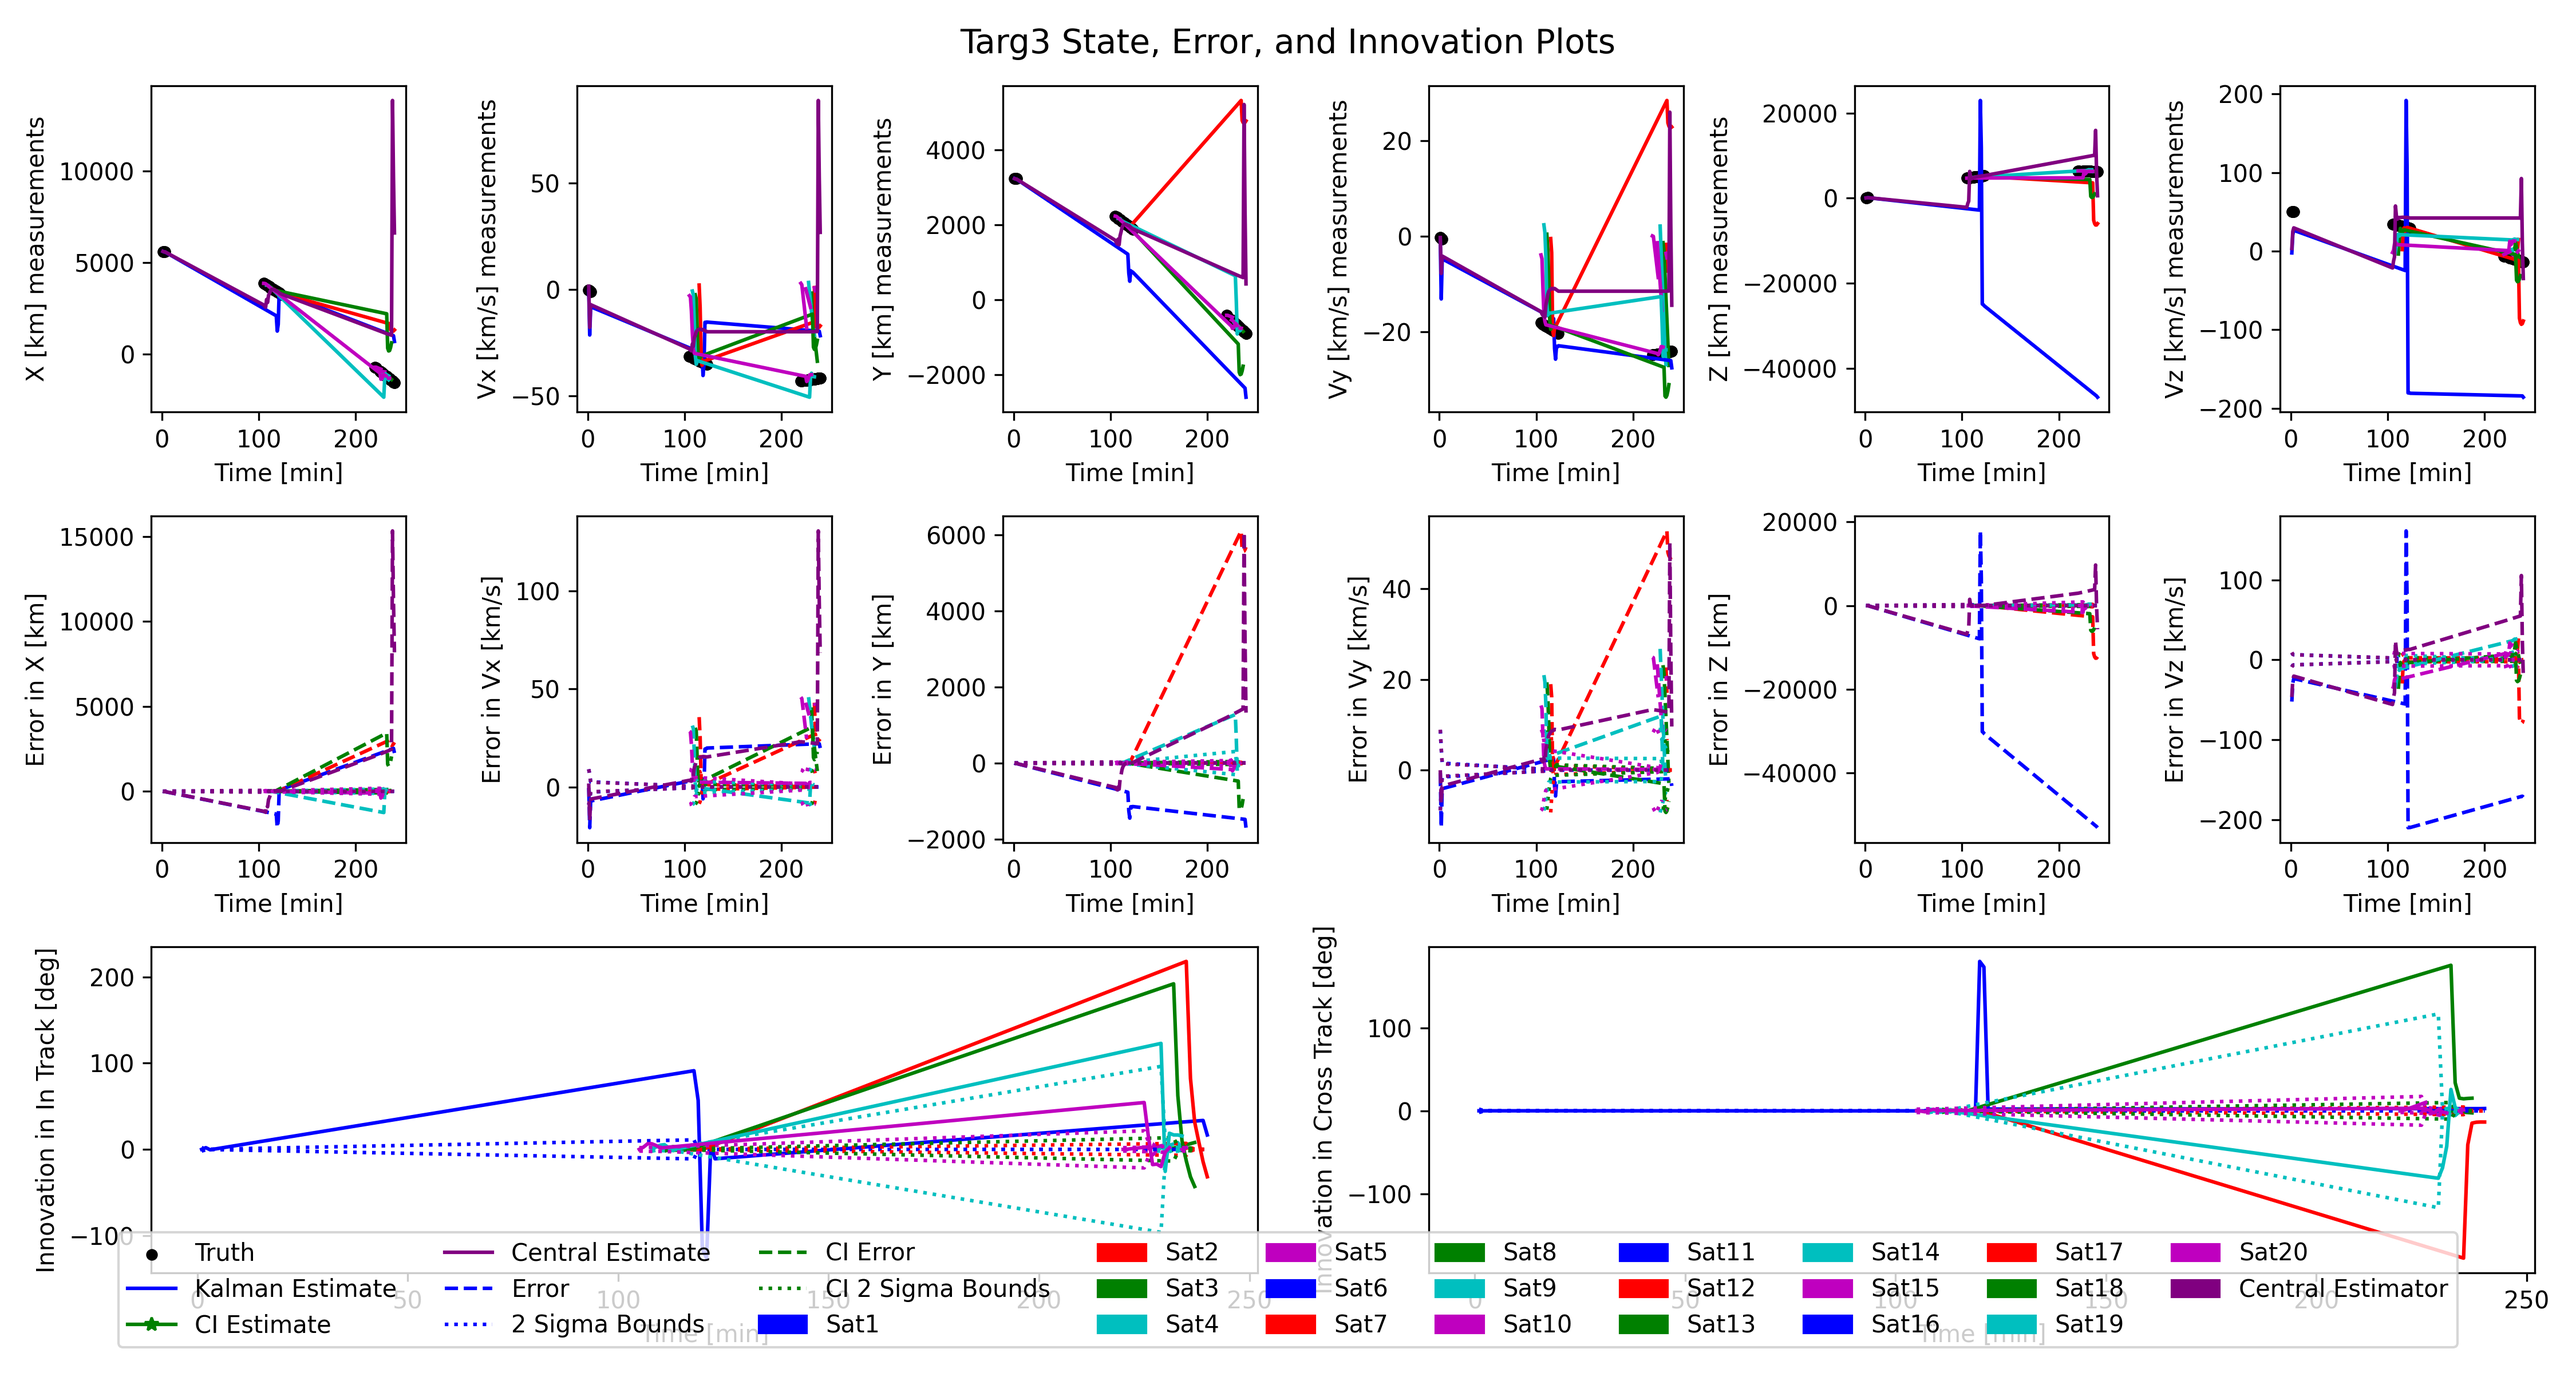
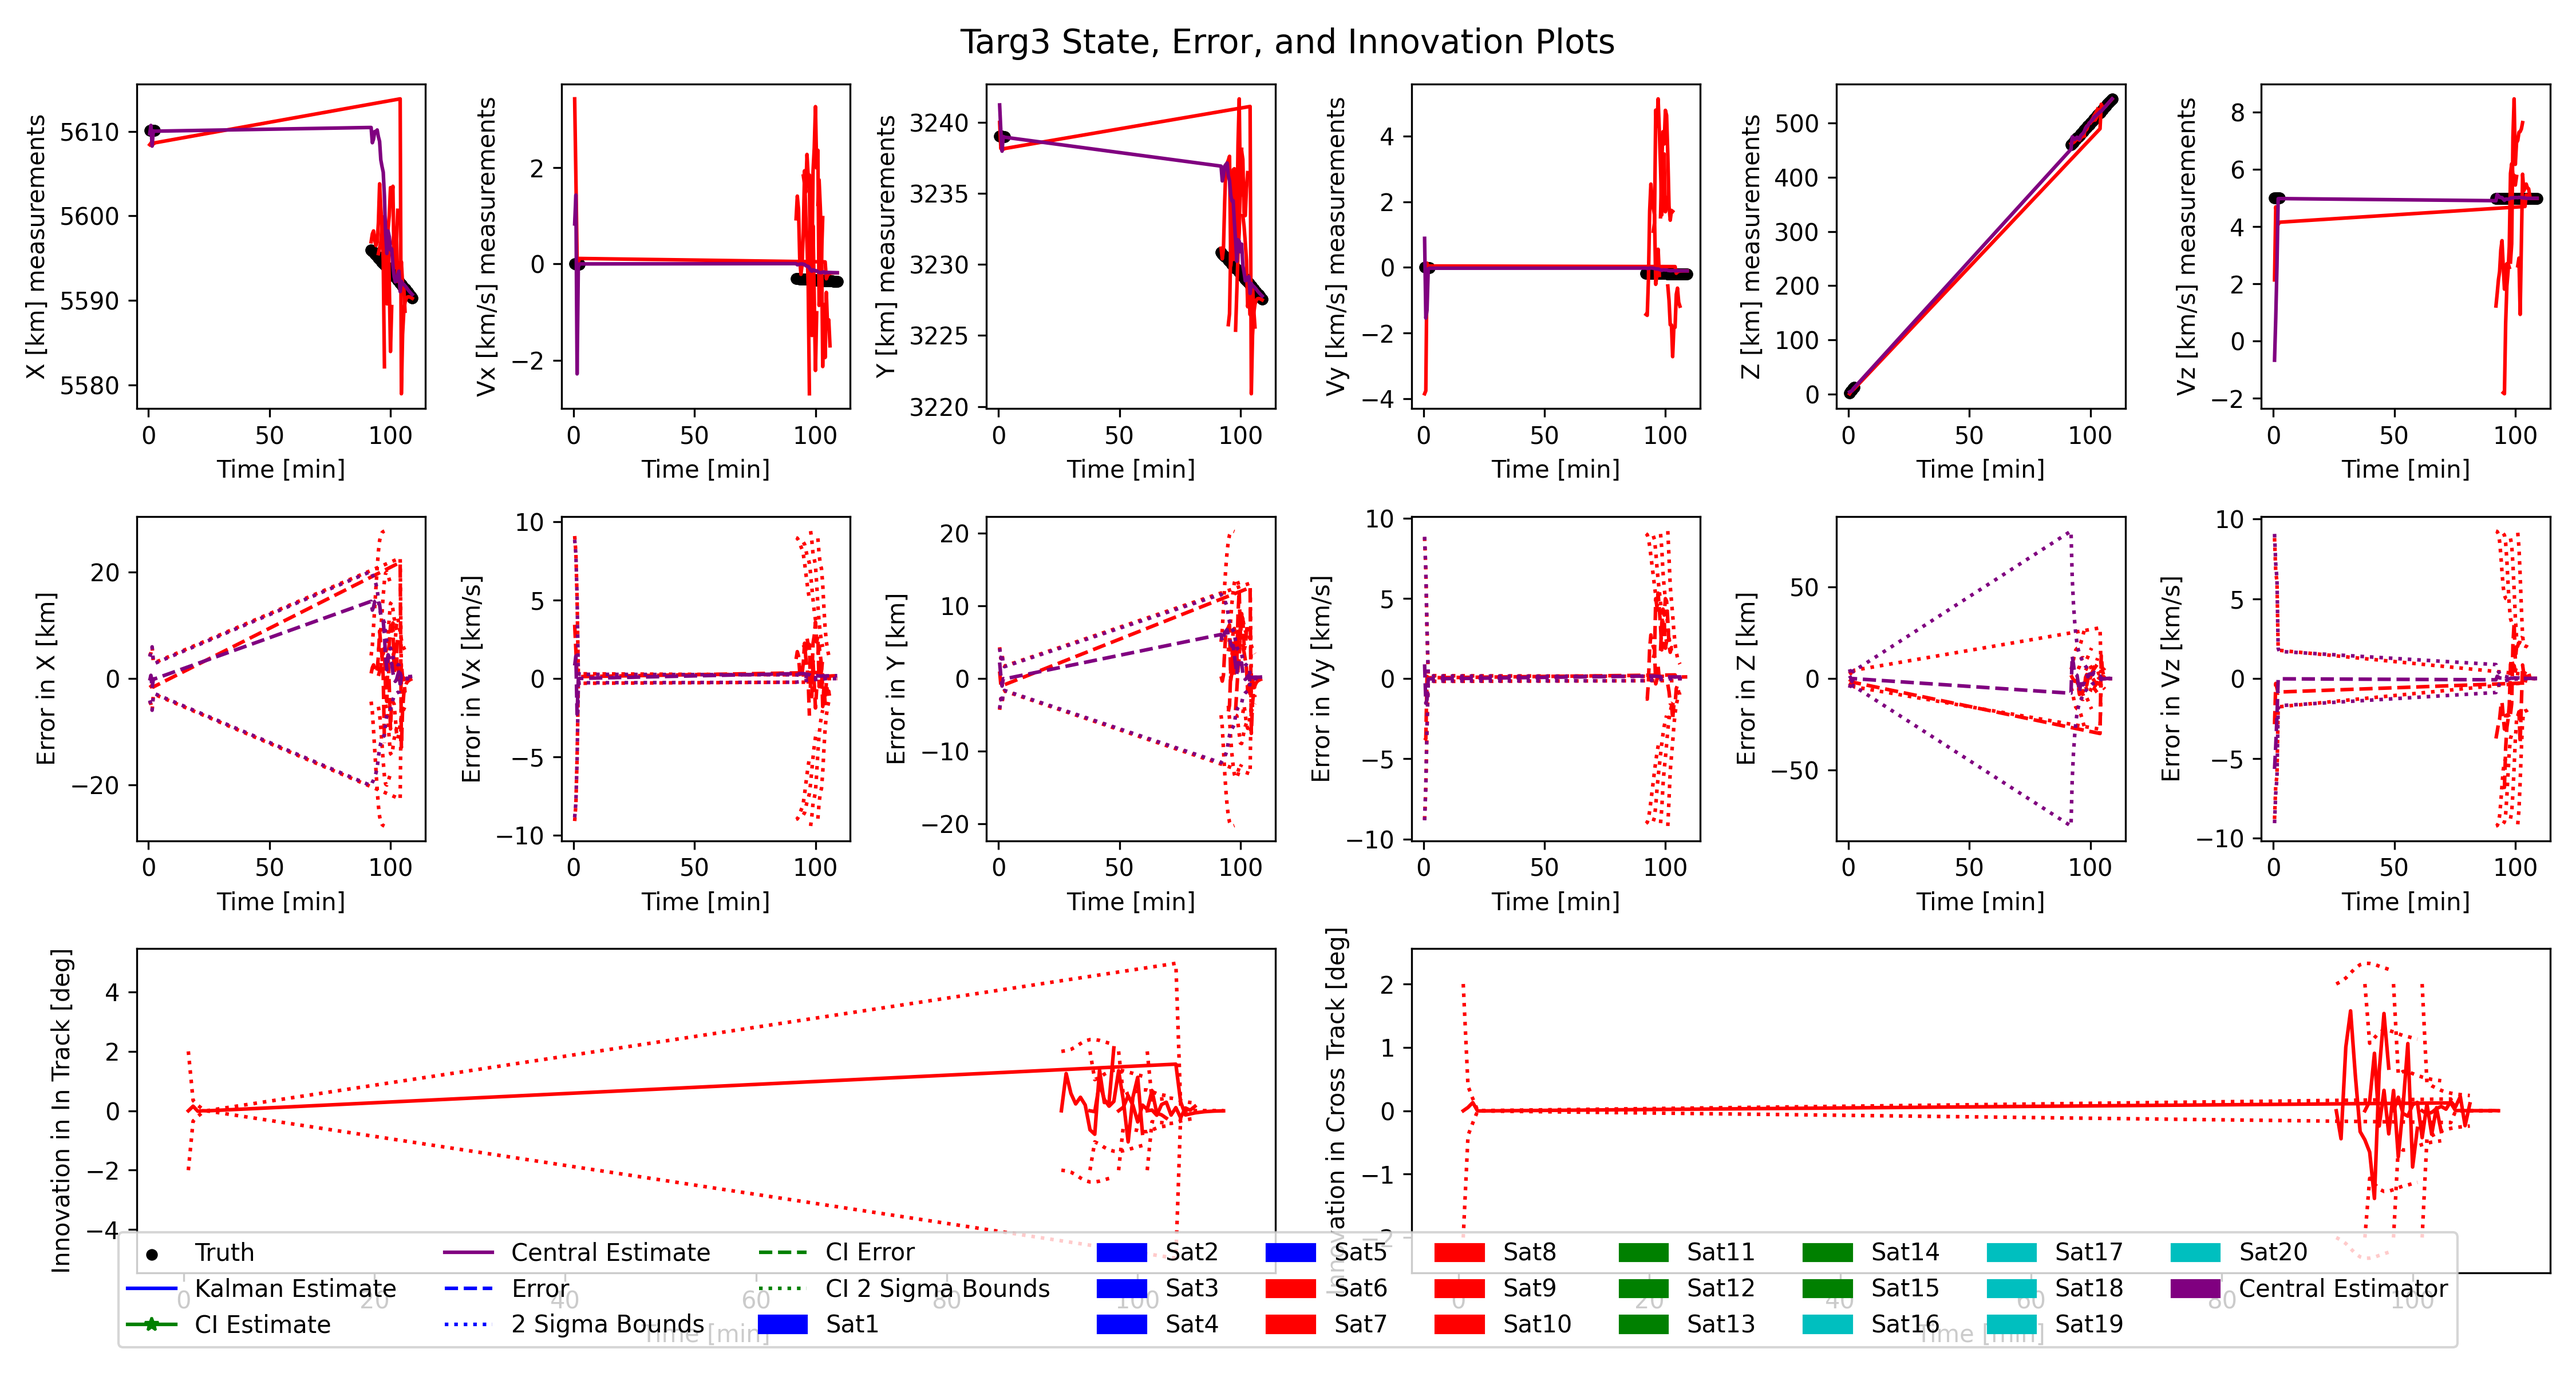
Fixed Test Case Except Targ2

diff --git a/phase1/main.py b/phase1/main.py
@@ -156,40 +156,40 @@ def testCase_environment():
     # Define the satellites:
     # Constellation 1: Polar Orbit at 0 degrees right ascension of ascending node
     sat1 = satellite(name = 'Sat1', sensor = sensor1, targetIDs=targetIDs, estimator = local1, dataFusion=dataFusionAlg1, a = Earth.R + 1000 * u.km, ecc = 0, inc = 90, raan = 0, argp = 0, nu = 0, color='b')
-    sat2 = satellite(name = 'Sat2', sensor = sensor2, targetIDs=targetIDs, estimator = local2, dataFusion=dataFusionAlg2, a = Earth.R + 1000 * u.km, ecc = 0, inc = 90, raan = 0, argp = 10, nu = 0, color='r')
-    sat3 = satellite(name = 'Sat3', sensor = sensor3, targetIDs=targetIDs, estimator = local3, dataFusion=dataFusionAlg3, a = Earth.R + 1000 * u.km, ecc = 0, inc = 90, raan = 0, argp = 20, nu = 0, color='g')
-    sat4 = satellite(name = 'Sat4', sensor = sensor4, targetIDs=targetIDs, estimator = local4, dataFusion=dataFusionAlg4, a = Earth.R + 1000 * u.km, ecc = 0, inc = 90, raan = 0, argp = 30, nu = 0, color='c')
-    sat5 = satellite(name = 'Sat5', sensor = sensor5, targetIDs=targetIDs, estimator = local5, dataFusion=dataFusionAlg5, a = Earth.R + 1000 * u.km, ecc = 0, inc = 90, raan = 0, argp = 40, nu = 0, color='m')
+    sat2 = satellite(name = 'Sat2', sensor = sensor2, targetIDs=targetIDs, estimator = local2, dataFusion=dataFusionAlg2, a = Earth.R + 1000 * u.km, ecc = 0, inc = 90, raan = 0, argp = 10, nu = 0, color='b')
+    sat3 = satellite(name = 'Sat3', sensor = sensor3, targetIDs=targetIDs, estimator = local3, dataFusion=dataFusionAlg3, a = Earth.R + 1000 * u.km, ecc = 0, inc = 90, raan = 0, argp = 20, nu = 0, color='b')
+    sat4 = satellite(name = 'Sat4', sensor = sensor4, targetIDs=targetIDs, estimator = local4, dataFusion=dataFusionAlg4, a = Earth.R + 1000 * u.km, ecc = 0, inc = 90, raan = 0, argp = 30, nu = 0, color='b')
+    sat5 = satellite(name = 'Sat5', sensor = sensor5, targetIDs=targetIDs, estimator = local5, dataFusion=dataFusionAlg5, a = Earth.R + 1000 * u.km, ecc = 0, inc = 90, raan = 0, argp = 40, nu = 0, color='b')
     
     # Constellation 2: Polar Orbit at 30 degrees right ascension of ascending node
-    sat6 = satellite(name = 'Sat6', sensor = sensor6, targetIDs=targetIDs, estimator = local6, dataFusion=dataFusionAlg6, a = Earth.R + 1000 * u.km, ecc = 0, inc = 90, raan = 30, argp = 0, nu = 0, color='b')
+    sat6 = satellite(name = 'Sat6', sensor = sensor6, targetIDs=targetIDs, estimator = local6, dataFusion=dataFusionAlg6, a = Earth.R + 1000 * u.km, ecc = 0, inc = 90, raan = 30, argp = 0, nu = 0, color='r')
     sat7 = satellite(name = 'Sat7', sensor = sensor7, targetIDs=targetIDs, estimator = local7, dataFusion=dataFusionAlg7, a = Earth.R + 1000 * u.km, ecc = 0, inc = 90, raan = 30, argp = 10, nu = 0, color='r')
-    sat8 = satellite(name = 'Sat8', sensor = sensor8, targetIDs=targetIDs, estimator = local8, dataFusion=dataFusionAlg8, a = Earth.R + 1000 * u.km, ecc = 0, inc = 90, raan = 30, argp = 20, nu = 0, color='g')
-    sat9 = satellite(name = 'Sat9', sensor = sensor9, targetIDs=targetIDs, estimator = local9, dataFusion=dataFusionAlg9, a = Earth.R + 1000 * u.km, ecc = 0, inc = 90, raan = 30, argp = 30, nu = 0, color='c')
-    sat10 = satellite(name = 'Sat10', sensor = sensor10, targetIDs=targetIDs, estimator = local10, dataFusion=dataFusionAlg10, a = Earth.R + 1000 * u.km, ecc = 0, inc = 90, raan = 30, argp = 40, nu = 0, color='m')
+    sat8 = satellite(name = 'Sat8', sensor = sensor8, targetIDs=targetIDs, estimator = local8, dataFusion=dataFusionAlg8, a = Earth.R + 1000 * u.km, ecc = 0, inc = 90, raan = 30, argp = 20, nu = 0, color='r')
+    sat9 = satellite(name = 'Sat9', sensor = sensor9, targetIDs=targetIDs, estimator = local9, dataFusion=dataFusionAlg9, a = Earth.R + 1000 * u.km, ecc = 0, inc = 90, raan = 30, argp = 30, nu = 0, color='r')
+    sat10 = satellite(name = 'Sat10', sensor = sensor10, targetIDs=targetIDs, estimator = local10, dataFusion=dataFusionAlg10, a = Earth.R + 1000 * u.km, ecc = 0, inc = 90, raan = 30, argp = 40, nu = 0, color='r')
     
     # Constellation 3: Polar Orbit at 60 degrees right ascension of ascending node
-    sat11 = satellite(name = 'Sat11', sensor = sensor11, targetIDs=targetIDs, estimator = local11, dataFusion=dataFusionAlg11, a = Earth.R + 1000 * u.km, ecc = 0, inc = 90, raan = 60, argp = 0, nu = -30, color='b')
-    sat12 = satellite(name = 'Sat12', sensor = sensor12, targetIDs=targetIDs, estimator = local12, dataFusion=dataFusionAlg12, a = Earth.R + 1000 * u.km, ecc = 0, inc = 90, raan = 60, argp = 10, nu = -30, color='r')
+    sat11 = satellite(name = 'Sat11', sensor = sensor11, targetIDs=targetIDs, estimator = local11, dataFusion=dataFusionAlg11, a = Earth.R + 1000 * u.km, ecc = 0, inc = 90, raan = 60, argp = 0, nu = -30, color='g')
+    sat12 = satellite(name = 'Sat12', sensor = sensor12, targetIDs=targetIDs, estimator = local12, dataFusion=dataFusionAlg12, a = Earth.R + 1000 * u.km, ecc = 0, inc = 90, raan = 60, argp = 10, nu = -30, color='g')
     sat13 = satellite(name = 'Sat13', sensor = sensor13, targetIDs=targetIDs, estimator = local13, dataFusion=dataFusionAlg13, a = Earth.R + 1000 * u.km, ecc = 0, inc = 90, raan = 60, argp = 20, nu = -30, color='g')
-    sat14 = satellite(name = 'Sat14', sensor = sensor14, targetIDs=targetIDs, estimator = local14, dataFusion=dataFusionAlg14, a = Earth.R + 1000 * u.km, ecc = 0, inc = 90, raan = 60, argp = 30, nu = -30, color='c')
-    sat15 = satellite(name = 'Sat15', sensor = sensor15, targetIDs=targetIDs, estimator = local15, dataFusion=dataFusionAlg15, a = Earth.R + 1000 * u.km, ecc = 0, inc = 90, raan = 60, argp = 40, nu = -30, color='m')
+    sat14 = satellite(name = 'Sat14', sensor = sensor14, targetIDs=targetIDs, estimator = local14, dataFusion=dataFusionAlg14, a = Earth.R + 1000 * u.km, ecc = 0, inc = 90, raan = 60, argp = 30, nu = -30, color='g')
+    sat15 = satellite(name = 'Sat15', sensor = sensor15, targetIDs=targetIDs, estimator = local15, dataFusion=dataFusionAlg15, a = Earth.R + 1000 * u.km, ecc = 0, inc = 90, raan = 60, argp = 40, nu = -30, color='g')
     
     # Constellation 4: Polar Orbit at 90 degrees right ascension of ascending node
-    sat16 = satellite(name = 'Sat16', sensor = sensor16, targetIDs=targetIDs, estimator = local16, dataFusion=dataFusionAlg16, a = Earth.R + 1000 * u.km, ecc = 0, inc = 90, raan = 90, argp = 0, nu = 10, color='b')
-    sat17 = satellite(name = 'Sat17', sensor = sensor17, targetIDs=targetIDs, estimator = local17, dataFusion=dataFusionAlg17, a = Earth.R + 1000 * u.km, ecc = 0, inc = 90, raan = 90, argp = 10, nu = 10, color='r')
-    sat18 = satellite(name = 'Sat18', sensor = sensor18, targetIDs=targetIDs, estimator = local18, dataFusion=dataFusionAlg18, a = Earth.R + 1000 * u.km, ecc = 0, inc = 90, raan = 90, argp = 20, nu = 10, color='g')
+    sat16 = satellite(name = 'Sat16', sensor = sensor16, targetIDs=targetIDs, estimator = local16, dataFusion=dataFusionAlg16, a = Earth.R + 1000 * u.km, ecc = 0, inc = 90, raan = 90, argp = 0, nu = 10, color='c')
+    sat17 = satellite(name = 'Sat17', sensor = sensor17, targetIDs=targetIDs, estimator = local17, dataFusion=dataFusionAlg17, a = Earth.R + 1000 * u.km, ecc = 0, inc = 90, raan = 90, argp = 10, nu = 10, color='c')
+    sat18 = satellite(name = 'Sat18', sensor = sensor18, targetIDs=targetIDs, estimator = local18, dataFusion=dataFusionAlg18, a = Earth.R + 1000 * u.km, ecc = 0, inc = 90, raan = 90, argp = 20, nu = 10, color='c')
     sat19 = satellite(name = 'Sat19', sensor = sensor19, targetIDs=targetIDs, estimator = local19, dataFusion=dataFusionAlg19, a = Earth.R + 1000 * u.km, ecc = 0, inc = 90, raan = 90, argp = 30, nu = 10, color='c')
-    sat20 = satellite(name = 'Sat20', sensor = sensor20, targetIDs=targetIDs, estimator = local20, dataFusion=dataFusionAlg20, a = Earth.R + 1000 * u.km, ecc = 0, inc = 90, raan = 90, argp = 40, nu = 10, color='m')
+    sat20 = satellite(name = 'Sat20', sensor = sensor20, targetIDs=targetIDs, estimator = local20, dataFusion=dataFusionAlg20, a = Earth.R + 1000 * u.km, ecc = 0, inc = 90, raan = 90, argp = 40, nu = 10, color='c')
     
     sats = [sat1, sat2, sat3, sat4, sat5, sat6, sat7, sat8, sat9, sat10, sat11, sat12, sat13, sat14, sat15, sat16, sat17, sat18, sat19, sat20]
 
     # Define the target objects:
-    targ1 = target(name = 'Targ1', targetID=1, cords = np.array([90,0,0]), heading=0, speed=50, climbrate = 0, color = 'k')
-    targ2 = target(name = 'Targ2', targetID=2, cords = np.array([45,15,200]), heading=0, speed=50, climbrate = 0, color = 'r')
-    targ3 = target(name = 'Targ3', targetID=3, cords = np.array([0,30,100]), heading=0, speed=50, climbrate = 0, color = 'g')
-    targ4 = target(name = 'Targ4', targetID=4, cords = np.array([-45,60,50]), heading=0, speed=50, climbrate = 0, color = 'c')
-    targ5 = target(name = 'Targ5', targetID=5, cords = np.array([-90,90,0]), heading=0, speed=50, climbrate = 0, color = 'm')
+    targ1 = target(name = 'Targ1', targetID=1, cords = np.array([90,0,0]), heading=0, speed=5, climbrate = 0, color = 'k')
+    targ2 = target(name = 'Targ2', targetID=2, cords = np.array([45,15,200]), heading=0, speed=5, climbrate = 0, color = 'k')
+    targ3 = target(name = 'Targ3', targetID=3, cords = np.array([0,30,100]), heading=0, speed=5, climbrate = 0, color = 'k')
+    targ4 = target(name = 'Targ4', targetID=4, cords = np.array([-45,60,50]), heading=0, speed=5, climbrate = 0, color = 'k')
+    targ5 = target(name = 'Targ5', targetID=5, cords = np.array([-90,90,0]), heading=0, speed=5, climbrate = 0, color = 'k')
     
     
     targs = [targ1, targ2, targ3, targ4, targ5]
@@ -265,7 +265,7 @@ def plot_NEES_NIS(simData):
 
 if __name__ == "__main__":
     # Vector of time for simulation:
-    time_vec = np.linspace(0, 240, 241) * u.minute
+    time_vec = np.linspace(0, 120, 241) * u.minute
 
     env = testCase_environment()
     env.simulate(time_vec, savePlot = True, saveName = str(1), showSim = True)
